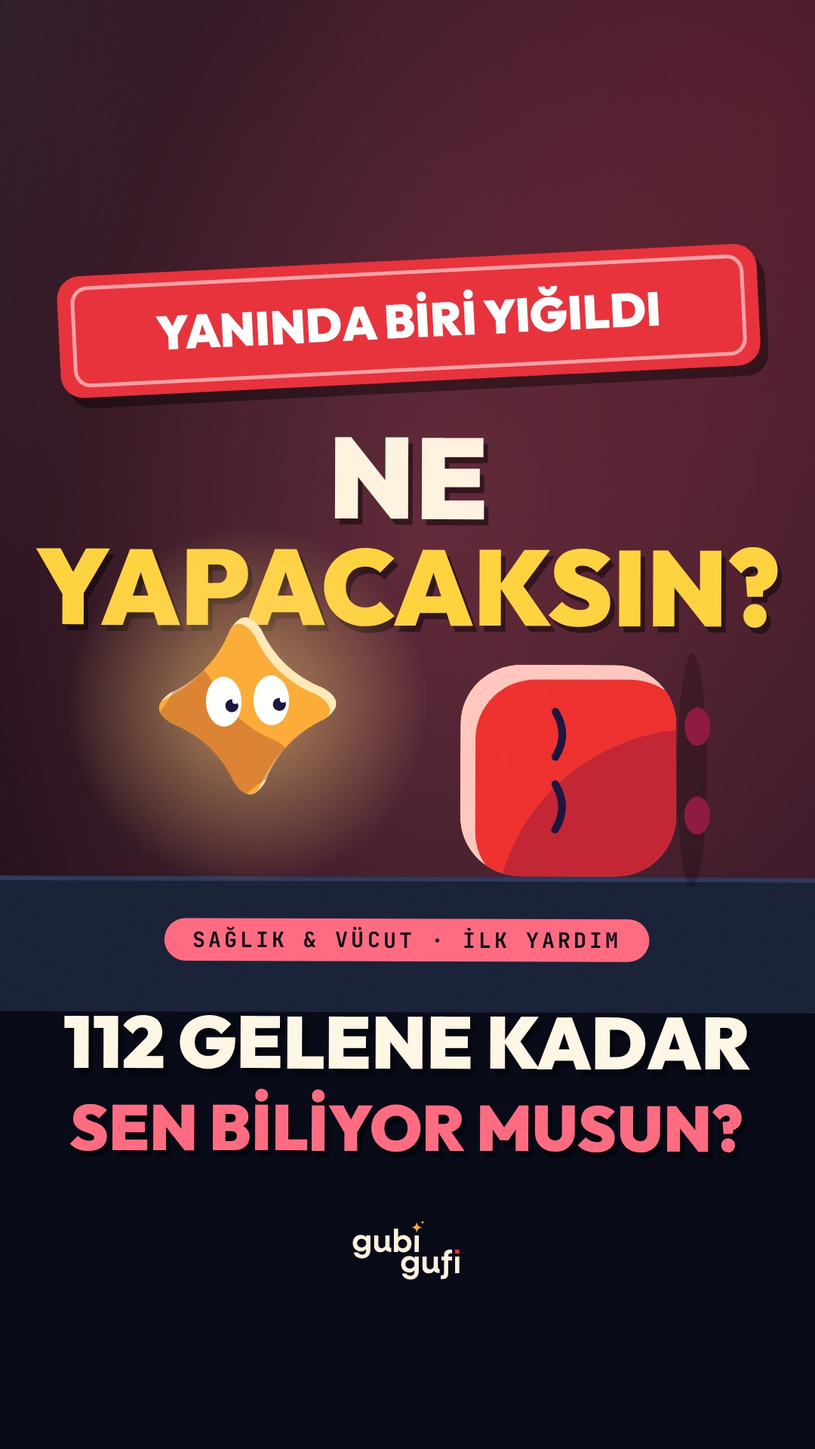
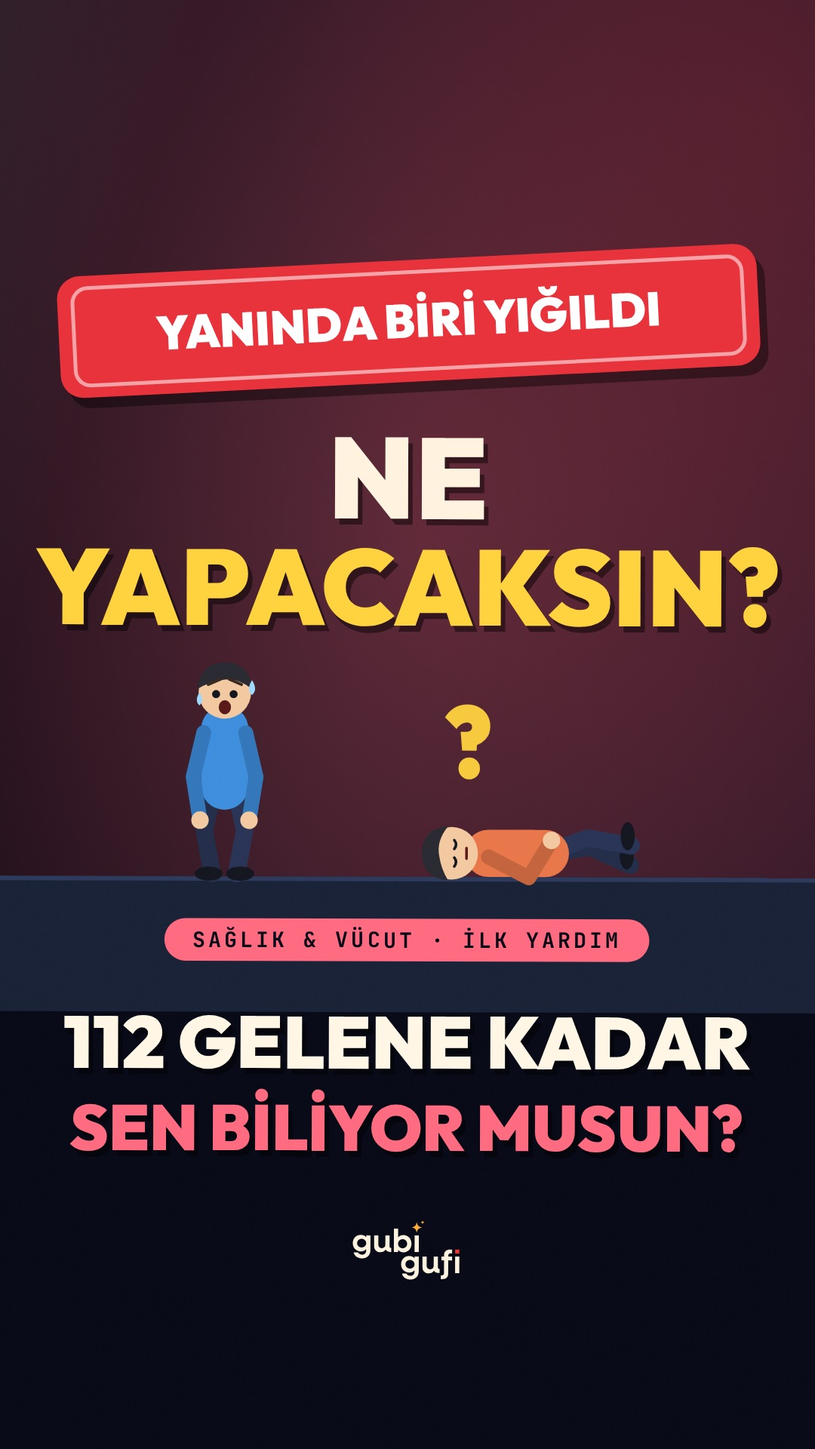
gubigufi #41: acilis insanlarla (Gubi/Gufi sonraki bolumlerde), kapak insanli
Claude-Session: https://claude.ai/code/session_01XpFWe2qV8RD24ed2Fkasje

Changed region(s): [[0.1222, 0.375, 0.4889, 0.625], [0.5194, 0.4375, 0.8861, 0.625]]

diff --git a/gubigufi/2026-10-18/41-ilk-yardim/kaynak/sahneler/s01.html b/gubigufi/2026-10-18/41-ilk-yardim/kaynak/sahneler/s01.html
@@ -4,7 +4,7 @@
 <svg viewBox="0 0 1080 1920" width="1080" height="1920" xmlns="http://www.w3.org/2000/svg">
   <g id="kamYak"><g id="zemin"></g><g class="kamera"><g id="sabit"></g><g id="dinamik"></g></g></g>
 </svg>
-<script>window.SB = 0; const TP = {"gubi": [[1.3, "sok"], [4.4, "isaret"], [7.5, "endise"], [10.15, "korku"]], "gufi": [[0.98, "bayil"]]}; window.GECIS = {"gir": null, "cik": {"tur": "kayma"}}; window.KLIP_N = {};</script>
+<script>window.SB = 0; const TP = {"gubi": [], "gufi": []}; window.GECIS = {"gir": null, "cik": {"tur": "kayma"}}; window.KLIP_N = {};</script>
 <script src="../ortak/kit.js"></script><script src="../ortak/maskot.js"></script><script src="../ortak/kisi.js"></script><script src="../ortak/zemin.js"></script><script src="../ortak/hareket.js"></script><script src="../ortak/cevre.js"></script><script src="../ortak/kostum.js"></script><script src="../ortak/para.js"></script><script src="../ortak/hk.js"></script><script src="../ortak/detay.js"></script><script src="../ortak/au.js"></script><script src="../ortak/kp.js"></script><script src="../ortak/al.js"></script><script src="../ortak/sl.js"></script><script src="../ortak/se.js"></script>
 <script src="../ortak/harita/d3-array.min.js"></script><script src="../ortak/harita/d3-geo.min.js"></script><script src="../ortak/harita/topojson-client.min.js"></script><script src="../ortak/harita/dunya50.js"></script><script src="../ortak/harita/ulke_tablo.js"></script><script src="../ortak/harita/turkiye10.js"></script><script src="../ortak/harita/harita.js"></script>
 <script src="../ortak/vendor/flubber.min.js"></script><script src="../ortak/vendor/culori.js"></script><script src="../ortak/motion2.js"></script><script src="../ortak/logo_paths.js"></script><script src="../ortak/altyazi.js"></script>
@@ -249,6 +249,7 @@ const yuzCiz = (goz, agiz, ifade) => {
   return o; };
 const kafaCiz = (hc, rot, ten, sac, goz, agiz, ifade) => `<g transform="translate(${F1(hc[0])} ${F1(hc[1])}) rotate(${rot.toFixed(1)})"><circle r="30" fill="${ten}"/><path d="M-31 -4 Q-28 -34 0 -34 Q28 -34 31 -4 Q14 -18 -4 -14 Q-18 -12 -31 -4Z" fill="${sac}"/>`
   + (goz === 'kapali' ? `<path d="M-15 3 Q-10 7 -5 3 M5 3 Q10 7 15 3" stroke="#14171F" stroke-width="3" fill="none" stroke-linecap="round"/>` : `<circle cx="-10" cy="2" r="${goz === 'genis' ? 4.6 : 3.5}" fill="#14171F"/><circle cx="10" cy="2" r="${goz === 'genis' ? 4.6 : 3.5}" fill="#14171F"/>`)
+  + (ifade === 'korku' ? `<path d="M-19 -9 L-5 -15 M19 -9 L5 -15" stroke="#3A2A22" stroke-width="3.4" stroke-linecap="round"/><path d="M31 -14 q7 11 0 17 q-7 -6 0 -17Z M-29 0 q6 10 0 15 q-6 -5 0 -15Z" fill="#9FD8FF"/>` : '')
   + (agiz === 'acik' || agiz === 'korku' ? `<ellipse cx="0" cy="17" rx="7" ry="8" fill="#5A1A1A"/>` : agiz === 'gulum' ? `<path d="M-8 14 Q0 22 8 14" stroke="#5A1A1A" stroke-width="3" fill="none" stroke-linecap="round"/>` : `<path d="M-6 17 H6" stroke="#5A1A1A" stroke-width="3" stroke-linecap="round"/>`) + `</g>`;
 // kisi: sh omuz, hip kalça (yerel). Önden görünüm: shW>0 ; yandan: shW=0.
 const uzv = (s0, t, pref, renk, kal) => { const [e, h] = ik2(s0[0], s0[1], t[0], t[1], KSZ.A, KSZ.B, pref); return { yol: `<path d="M${F1(s0[0])} ${F1(s0[1])} L${F1(e[0])} ${F1(e[1])} L${F1(h[0])} ${F1(h[1])}" stroke="${renk}" stroke-width="${kal}" fill="none" stroke-linecap="round" stroke-linejoin="round"/>`, el: h }; };
@@ -395,14 +396,21 @@ const MAS = (t, o = {}) => gubi(t, { x: 880, y: 1650, boy: 150, duygu: o.gd || '
 
 MO.sahne({
   zemin: MO.zemin({ ust: '#0F1B33', alt: '#05080F', isik: [420, 700, '#FFD27A', .16], ikinci: [900, 1500, '#E8323C', .06] }),
-  kamera: [[0, 1.0, 540, 960], [.1, 1.04, 540, 960, 9.7, 'kamera'], [10.0, 2.7, 330, 980, 1.3, 'kamera']],
+  kamera: [[0, 1.0, 540, 960], [.1, 1.04, 540, 960, 9.7, 'kamera'], [10.0, 2.8, 345, 880, 1.3, 'kamera']],
   sarsinti: [[1.5, 12], [10.2, 10], [10.6, 8], [11.0, 6]],
   ciz: t => {
     let o = '';
     [[-20, 120, 330], [110, 90, 250], [205, 130, 380], [700, 110, 300], [815, 150, 420], [975, 120, 260]].forEach(([x, w, h]) => o += R(x, 1180 - h, w, h, 3, '#10182C'));
-    for (let i = 0; i < 18; i++) { const x = (i * 211) % 1060 + 10, y = 900 + (i * 97) %240; if (Math.sin(t * 1.5 + i) > -.6) o += R(x, y, 8, 11, 2, '#FFD27A', .5); }
+    for (let i = 0; i < 18; i++) { const x = (i * 211) % 1060 + 10, y = 900 + (i * 97) % 240; if (Math.sin(t * 1.5 + i) > -.6) o += R(x, y, 8, 11, 2, '#FFD27A', .5); }
     o += `<path d="M175 1180 V760 Q175 720 215 720 H300" stroke="#2B3550" stroke-width="12" fill="none"/>` + R(280, 716, 70, 20, 8, '#FFE9A8') + `<path d="M280 736 L180 1180 H410 L350 736Z" fill="#FFE9A8" opacity=".10"/>`;
     o += R(-100, 1180, 1280, 800, 0, '#1A2238') + R(-100, 1180, 1280, 8, 0, '#2E3A5C') + R(-100, 1500, 1280, 6, 0, '#2B3550', .6);
+    const ear = fd(t, 4.4, 4.7) * (1 - fd(t, 6.3, 6.6));
+    const korku = t > 10.0, sas = t > .9, pls = korku ? 1 + .03 * Math.sin(t * 22) : 1;
+    o += `<g transform="translate(340 1180) scale(${pls}) translate(-340 -1180)">` + dur(340, 1180, 1.55, { renk: '#3E8EDE', elR: ear > .01 ? [(24 * ear + 28 * (1 - ear)), (-190 * ear - 64 * (1 - ear))] : [28, -64], goz: sas ? 'genis' : 'acik', agiz: korku || sas ? 'acik' : 'duz', ifade: korku ? 'korku' : 'normal', basEk: t < .9 ? 0 : (t < 3.3 ? -8 : 0) }) + '</g>';
+    const wob = t > .35 && t < .98 ? Math.sin(t * 24) * 2.5 * fd(t, .35, .9) : 0;
+    if (t < 1.0) o += `<g transform="rotate(${wob} 840 1180)">` + dur(840, 1180, 1.55, { renk: '#E8774A', goz: 'kapali', agiz: 'duz', elL: [-34, -90], elR: [34, -90 + 14 * fd(t, .5, 1)] }) + '</g>';
+    else { const th = MO.E.inQuad(fd(t, .98, 1.55)); o += th < 1 ? dusus(840, 1180, 1.55, th, { renk: '#E8774A' }) : yatan(840 - 168 * 1.55, 1180, 1.55, { renk: '#E8774A' }); }
+    const dz = MO.ar(t, 1.55, 2.4); if (dz > 0 && dz < 1) for (let k = 0; k < 5; k++) o += `<circle cx="${620 + k * 55}" cy="${1170 - 20 * dz * (1 + k % 2)}" r="${14 + 30 * dz}" fill="#8A94A8" opacity="${(.4 * (1 - dz)).toFixed(2)}"/>`;
     o += ET(t, 3.25, 4.35, 'KİMSE YOK', '#E8323C', '#FFFFFF', 84, 520, -3);
     o += MO.sar(R(-210, -150, 420, 300, 40, '#0F1838') + `<rect x="-210" y="-150" width="420" height="300" rx="40" fill="none" stroke="#7FD0FF" stroke-width="5"/>` + ikon('tel', -90, 0, 1.9) + txt('112', 80, 34, 110, '#FFFFFF'), MO.oge(t, { gir: 4.4, cik: 6.45, agirlik: 'orta', giris: 'olcek', materyal: 'plastik', x: 540 }), 540, 620, { golge: false });
     o += MO.sar(R(-250, -62, 500, 124, 62, '#1F9E5B') + `<circle cx="-170" cy="0" r="38" fill="#FFFFFF"/><path d="M-188 2 L-176 14 L-152 -14" stroke="#1F9E5B" stroke-width="9" fill="none" stroke-linecap="round" stroke-linejoin="round"/>` + txt('DOĞRU', 40, 22, 62, '#FFFFFF'), MO.oge(t, { gir: 6.5, cik: 7.7, agirlik: 'hafif', giris: 'yuksel', materyal: 'lastik', x: 540 }), 540, 620, { golge: false });
@@ -412,15 +420,6 @@ MO.sahne({
       o += `<g opacity="${ka.toFixed(2)}">` + MO.sar(saat(0, 0, 100, (t - 7.4) * .7), MO.oge(t, { gir: 7.5, cik: 9.8, agirlik: 'agir', giris: 'olcek', materyal: 'plastik', x: 540 }), 880, 560, { golge: false }) + '</g>';
       o += MO.sar(zamanChip('O DAKİKALAR', 0, 0, '#E8323C', '#FFFFFF', 40), MO.oge(t, { gir: 7.8, cik: 9.8, agirlik: 'hafif', giris: 'yuksel', x: 540 }), 400, 560, { golge: false });
     }
-    // oyuncular: Gufi yığılan kişi, Gubi yanındaki "sen". Havadan görüntüde köşede izler.
-    const gA = 1 - ka;
-    if (gA > .01) {
-      const gx = 780, gy = 1180;
-      if (t < 3.1) o += `<g opacity="${gA.toFixed(2)}">` + gufi(t, { x: gx, y: gy, boy: 300, duygu: t < .98 ? 'merak' : 'uyu', bakHedef: [340, 980] }) + '</g>';
-      else o += `<g opacity="${gA.toFixed(2)}"><g transform="rotate(-90 ${gx} ${gy - 150})">` + gufi(t, { x: gx, y: gy, boy: 300, duygu: 'uyu', tepkiler: [], canlilik: false }) + '</g></g>';
-      o += `<g opacity="${gA.toFixed(2)}">` + gubi(t, { x: 340, y: 960, boy: 250, duygu: t > 10.1 ? 'korku' : (t > .9 ? 'saskin' : 'merak'), bakHedef: t < .9 ? [840, 1060] : [840, 1160], isaretHedef: [540, 620] }) + '</g>';
-    }
-    if (ka > .01) o += `<g opacity="${ka.toFixed(2)}">` + gubi(t, { x: 180, y: 1530, boy: 190, duygu: 'saskin', bakHedef: [540, 1000] }) + '</g>';
     return o;
   },
   onCiz: t => ET(t, 10.5, 99, 'NE YAPACAKSIN?', '#FFD23F', '#1B2440', 76, 520, -2)

diff --git a/gubigufi/2026-10-18/41-ilk-yardim/kaynak/sahneler/kapak.html b/gubigufi/2026-10-18/41-ilk-yardim/kaynak/sahneler/kapak.html
@@ -249,6 +249,7 @@ const yuzCiz = (goz, agiz, ifade) => {
   return o; };
 const kafaCiz = (hc, rot, ten, sac, goz, agiz, ifade) => `<g transform="translate(${F1(hc[0])} ${F1(hc[1])}) rotate(${rot.toFixed(1)})"><circle r="30" fill="${ten}"/><path d="M-31 -4 Q-28 -34 0 -34 Q28 -34 31 -4 Q14 -18 -4 -14 Q-18 -12 -31 -4Z" fill="${sac}"/>`
   + (goz === 'kapali' ? `<path d="M-15 3 Q-10 7 -5 3 M5 3 Q10 7 15 3" stroke="#14171F" stroke-width="3" fill="none" stroke-linecap="round"/>` : `<circle cx="-10" cy="2" r="${goz === 'genis' ? 4.6 : 3.5}" fill="#14171F"/><circle cx="10" cy="2" r="${goz === 'genis' ? 4.6 : 3.5}" fill="#14171F"/>`)
+  + (ifade === 'korku' ? `<path d="M-19 -9 L-5 -15 M19 -9 L5 -15" stroke="#3A2A22" stroke-width="3.4" stroke-linecap="round"/><path d="M31 -14 q7 11 0 17 q-7 -6 0 -17Z M-29 0 q6 10 0 15 q-6 -5 0 -15Z" fill="#9FD8FF"/>` : '')
   + (agiz === 'acik' || agiz === 'korku' ? `<ellipse cx="0" cy="17" rx="7" ry="8" fill="#5A1A1A"/>` : agiz === 'gulum' ? `<path d="M-8 14 Q0 22 8 14" stroke="#5A1A1A" stroke-width="3" fill="none" stroke-linecap="round"/>` : `<path d="M-6 17 H6" stroke="#5A1A1A" stroke-width="3" stroke-linecap="round"/>`) + `</g>`;
 // kisi: sh omuz, hip kalça (yerel). Önden görünüm: shW>0 ; yandan: shW=0.
 const uzv = (s0, t, pref, renk, kal) => { const [e, h] = ik2(s0[0], s0[1], t[0], t[1], KSZ.A, KSZ.B, pref); return { yol: `<path d="M${F1(s0[0])} ${F1(s0[1])} L${F1(e[0])} ${F1(e[1])} L${F1(h[0])} ${F1(h[1])}" stroke="${renk}" stroke-width="${kal}" fill="none" stroke-linecap="round" stroke-linejoin="round"/>`, el: h }; };
@@ -402,8 +403,8 @@ MO.sahne({
     let o = `<g transform="translate(540 430) rotate(-3)">` + R(-460 + 10, -80 + 14, 920, 160, 30, '#000', .4) + R(-460, -80, 920, 160, 30, '#E8323C') + `<rect x="-440" y="-64" width="880" height="128" rx="20" fill="none" stroke="#FFFFFF" stroke-opacity=".55" stroke-width="5"/>` + txt('YANINDA BİRİ YIĞILDI', 0, 22, 62, '#FFFFFF') + `</g>`;
     o += gTxt('NE', 540, 690, 150, '#FFF3E0') + gTxt('YAPACAKSIN?', 540, 830, 140, '#FFD23F');
     o += R(-100, 1160, 1280, 400, 0, '#1A2238') + R(-100, 1160, 1280, 6, 0, '#2E3A5C');
-    o += `<g transform="rotate(-90 770 1020)">` + gufi(2, { x: 770, y: 1160, boy: 280, duygu: 'uyu', tepkiler: [], canlilik: false }) + `</g>`;
-    o += gubi(2, { x: 330, y: 950, boy: 250, duygu: 'korku', tepkiler: [], bakHedef: [770, 1080] });
+    o += dur(300, 1160, 1.15, { renk: '#3E8EDE', goz: 'genis', agiz: 'acik', ifade: 'korku' }) + yatan(840 - 168 * 1.15, 1160, 1.15, { renk: '#E8774A' });
+    o += `<text x="620" y="1030" font-size="130" font-weight="900" text-anchor="middle" style="fill:#FFD23F" opacity=".95">?</text>`;
     const f = 'cvf'; o += `<defs><linearGradient id="${f}" x1="0" y1="0" x2="0" y2="1"><stop offset="0" stop-color="rgba(8,10,24,0)"/><stop offset="1" stop-color="#080A18"/></linearGradient></defs><rect x="0" y="1040" width="1080" height="300" fill="url(#${f})" opacity=".0"/><rect x="0" y="1338" width="1080" height="582" fill="#080A18"/>`;
     const ust = 'SAĞLIK & VÜCUT · İLK YARDIM'; o += `<rect x="${540 - (ust.length * 21 + 70) / 2}" y="1215" width="${ust.length * 21 + 70}" height="56" rx="28" fill="#FF6B81"/><text class="mono" x="540" y="1253" font-size="28" text-anchor="middle" letter-spacing="4" style="fill:#080A18">${ust}</text>`;
     o += gTxt('112 GELENE KADAR', 540, 1412, 96, '#FFF6E6') + gTxt('SEN BİLİYOR MUSUN?', 540, 1520, 84, '#FF6B81') + logo();

diff --git a/gubigufi/2026-10-18/41-ilk-yardim/kaynak/sahneler/s02.html b/gubigufi/2026-10-18/41-ilk-yardim/kaynak/sahneler/s02.html
@@ -249,6 +249,7 @@ const yuzCiz = (goz, agiz, ifade) => {
   return o; };
 const kafaCiz = (hc, rot, ten, sac, goz, agiz, ifade) => `<g transform="translate(${F1(hc[0])} ${F1(hc[1])}) rotate(${rot.toFixed(1)})"><circle r="30" fill="${ten}"/><path d="M-31 -4 Q-28 -34 0 -34 Q28 -34 31 -4 Q14 -18 -4 -14 Q-18 -12 -31 -4Z" fill="${sac}"/>`
   + (goz === 'kapali' ? `<path d="M-15 3 Q-10 7 -5 3 M5 3 Q10 7 15 3" stroke="#14171F" stroke-width="3" fill="none" stroke-linecap="round"/>` : `<circle cx="-10" cy="2" r="${goz === 'genis' ? 4.6 : 3.5}" fill="#14171F"/><circle cx="10" cy="2" r="${goz === 'genis' ? 4.6 : 3.5}" fill="#14171F"/>`)
+  + (ifade === 'korku' ? `<path d="M-19 -9 L-5 -15 M19 -9 L5 -15" stroke="#3A2A22" stroke-width="3.4" stroke-linecap="round"/><path d="M31 -14 q7 11 0 17 q-7 -6 0 -17Z M-29 0 q6 10 0 15 q-6 -5 0 -15Z" fill="#9FD8FF"/>` : '')
   + (agiz === 'acik' || agiz === 'korku' ? `<ellipse cx="0" cy="17" rx="7" ry="8" fill="#5A1A1A"/>` : agiz === 'gulum' ? `<path d="M-8 14 Q0 22 8 14" stroke="#5A1A1A" stroke-width="3" fill="none" stroke-linecap="round"/>` : `<path d="M-6 17 H6" stroke="#5A1A1A" stroke-width="3" stroke-linecap="round"/>`) + `</g>`;
 // kisi: sh omuz, hip kalça (yerel). Önden görünüm: shW>0 ; yandan: shW=0.
 const uzv = (s0, t, pref, renk, kal) => { const [e, h] = ik2(s0[0], s0[1], t[0], t[1], KSZ.A, KSZ.B, pref); return { yol: `<path d="M${F1(s0[0])} ${F1(s0[1])} L${F1(e[0])} ${F1(e[1])} L${F1(h[0])} ${F1(h[1])}" stroke="${renk}" stroke-width="${kal}" fill="none" stroke-linecap="round" stroke-linejoin="round"/>`, el: h }; };

diff --git a/gubigufi/2026-10-18/41-ilk-yardim/kaynak/sahneler/s03.html b/gubigufi/2026-10-18/41-ilk-yardim/kaynak/sahneler/s03.html
@@ -249,6 +249,7 @@ const yuzCiz = (goz, agiz, ifade) => {
   return o; };
 const kafaCiz = (hc, rot, ten, sac, goz, agiz, ifade) => `<g transform="translate(${F1(hc[0])} ${F1(hc[1])}) rotate(${rot.toFixed(1)})"><circle r="30" fill="${ten}"/><path d="M-31 -4 Q-28 -34 0 -34 Q28 -34 31 -4 Q14 -18 -4 -14 Q-18 -12 -31 -4Z" fill="${sac}"/>`
   + (goz === 'kapali' ? `<path d="M-15 3 Q-10 7 -5 3 M5 3 Q10 7 15 3" stroke="#14171F" stroke-width="3" fill="none" stroke-linecap="round"/>` : `<circle cx="-10" cy="2" r="${goz === 'genis' ? 4.6 : 3.5}" fill="#14171F"/><circle cx="10" cy="2" r="${goz === 'genis' ? 4.6 : 3.5}" fill="#14171F"/>`)
+  + (ifade === 'korku' ? `<path d="M-19 -9 L-5 -15 M19 -9 L5 -15" stroke="#3A2A22" stroke-width="3.4" stroke-linecap="round"/><path d="M31 -14 q7 11 0 17 q-7 -6 0 -17Z M-29 0 q6 10 0 15 q-6 -5 0 -15Z" fill="#9FD8FF"/>` : '')
   + (agiz === 'acik' || agiz === 'korku' ? `<ellipse cx="0" cy="17" rx="7" ry="8" fill="#5A1A1A"/>` : agiz === 'gulum' ? `<path d="M-8 14 Q0 22 8 14" stroke="#5A1A1A" stroke-width="3" fill="none" stroke-linecap="round"/>` : `<path d="M-6 17 H6" stroke="#5A1A1A" stroke-width="3" stroke-linecap="round"/>`) + `</g>`;
 // kisi: sh omuz, hip kalça (yerel). Önden görünüm: shW>0 ; yandan: shW=0.
 const uzv = (s0, t, pref, renk, kal) => { const [e, h] = ik2(s0[0], s0[1], t[0], t[1], KSZ.A, KSZ.B, pref); return { yol: `<path d="M${F1(s0[0])} ${F1(s0[1])} L${F1(e[0])} ${F1(e[1])} L${F1(h[0])} ${F1(h[1])}" stroke="${renk}" stroke-width="${kal}" fill="none" stroke-linecap="round" stroke-linejoin="round"/>`, el: h }; };

diff --git a/gubigufi/2026-10-18/41-ilk-yardim/kaynak/sahneler/s04.html b/gubigufi/2026-10-18/41-ilk-yardim/kaynak/sahneler/s04.html
@@ -249,6 +249,7 @@ const yuzCiz = (goz, agiz, ifade) => {
   return o; };
 const kafaCiz = (hc, rot, ten, sac, goz, agiz, ifade) => `<g transform="translate(${F1(hc[0])} ${F1(hc[1])}) rotate(${rot.toFixed(1)})"><circle r="30" fill="${ten}"/><path d="M-31 -4 Q-28 -34 0 -34 Q28 -34 31 -4 Q14 -18 -4 -14 Q-18 -12 -31 -4Z" fill="${sac}"/>`
   + (goz === 'kapali' ? `<path d="M-15 3 Q-10 7 -5 3 M5 3 Q10 7 15 3" stroke="#14171F" stroke-width="3" fill="none" stroke-linecap="round"/>` : `<circle cx="-10" cy="2" r="${goz === 'genis' ? 4.6 : 3.5}" fill="#14171F"/><circle cx="10" cy="2" r="${goz === 'genis' ? 4.6 : 3.5}" fill="#14171F"/>`)
+  + (ifade === 'korku' ? `<path d="M-19 -9 L-5 -15 M19 -9 L5 -15" stroke="#3A2A22" stroke-width="3.4" stroke-linecap="round"/><path d="M31 -14 q7 11 0 17 q-7 -6 0 -17Z M-29 0 q6 10 0 15 q-6 -5 0 -15Z" fill="#9FD8FF"/>` : '')
   + (agiz === 'acik' || agiz === 'korku' ? `<ellipse cx="0" cy="17" rx="7" ry="8" fill="#5A1A1A"/>` : agiz === 'gulum' ? `<path d="M-8 14 Q0 22 8 14" stroke="#5A1A1A" stroke-width="3" fill="none" stroke-linecap="round"/>` : `<path d="M-6 17 H6" stroke="#5A1A1A" stroke-width="3" stroke-linecap="round"/>`) + `</g>`;
 // kisi: sh omuz, hip kalça (yerel). Önden görünüm: shW>0 ; yandan: shW=0.
 const uzv = (s0, t, pref, renk, kal) => { const [e, h] = ik2(s0[0], s0[1], t[0], t[1], KSZ.A, KSZ.B, pref); return { yol: `<path d="M${F1(s0[0])} ${F1(s0[1])} L${F1(e[0])} ${F1(e[1])} L${F1(h[0])} ${F1(h[1])}" stroke="${renk}" stroke-width="${kal}" fill="none" stroke-linecap="round" stroke-linejoin="round"/>`, el: h }; };

diff --git a/gubigufi/2026-10-18/41-ilk-yardim/kaynak/sahneler/s05.html b/gubigufi/2026-10-18/41-ilk-yardim/kaynak/sahneler/s05.html
@@ -249,6 +249,7 @@ const yuzCiz = (goz, agiz, ifade) => {
   return o; };
 const kafaCiz = (hc, rot, ten, sac, goz, agiz, ifade) => `<g transform="translate(${F1(hc[0])} ${F1(hc[1])}) rotate(${rot.toFixed(1)})"><circle r="30" fill="${ten}"/><path d="M-31 -4 Q-28 -34 0 -34 Q28 -34 31 -4 Q14 -18 -4 -14 Q-18 -12 -31 -4Z" fill="${sac}"/>`
   + (goz === 'kapali' ? `<path d="M-15 3 Q-10 7 -5 3 M5 3 Q10 7 15 3" stroke="#14171F" stroke-width="3" fill="none" stroke-linecap="round"/>` : `<circle cx="-10" cy="2" r="${goz === 'genis' ? 4.6 : 3.5}" fill="#14171F"/><circle cx="10" cy="2" r="${goz === 'genis' ? 4.6 : 3.5}" fill="#14171F"/>`)
+  + (ifade === 'korku' ? `<path d="M-19 -9 L-5 -15 M19 -9 L5 -15" stroke="#3A2A22" stroke-width="3.4" stroke-linecap="round"/><path d="M31 -14 q7 11 0 17 q-7 -6 0 -17Z M-29 0 q6 10 0 15 q-6 -5 0 -15Z" fill="#9FD8FF"/>` : '')
   + (agiz === 'acik' || agiz === 'korku' ? `<ellipse cx="0" cy="17" rx="7" ry="8" fill="#5A1A1A"/>` : agiz === 'gulum' ? `<path d="M-8 14 Q0 22 8 14" stroke="#5A1A1A" stroke-width="3" fill="none" stroke-linecap="round"/>` : `<path d="M-6 17 H6" stroke="#5A1A1A" stroke-width="3" stroke-linecap="round"/>`) + `</g>`;
 // kisi: sh omuz, hip kalça (yerel). Önden görünüm: shW>0 ; yandan: shW=0.
 const uzv = (s0, t, pref, renk, kal) => { const [e, h] = ik2(s0[0], s0[1], t[0], t[1], KSZ.A, KSZ.B, pref); return { yol: `<path d="M${F1(s0[0])} ${F1(s0[1])} L${F1(e[0])} ${F1(e[1])} L${F1(h[0])} ${F1(h[1])}" stroke="${renk}" stroke-width="${kal}" fill="none" stroke-linecap="round" stroke-linejoin="round"/>`, el: h }; };

diff --git a/gubigufi/2026-10-18/41-ilk-yardim/kaynak/sahneler/s06.html b/gubigufi/2026-10-18/41-ilk-yardim/kaynak/sahneler/s06.html
@@ -249,6 +249,7 @@ const yuzCiz = (goz, agiz, ifade) => {
   return o; };
 const kafaCiz = (hc, rot, ten, sac, goz, agiz, ifade) => `<g transform="translate(${F1(hc[0])} ${F1(hc[1])}) rotate(${rot.toFixed(1)})"><circle r="30" fill="${ten}"/><path d="M-31 -4 Q-28 -34 0 -34 Q28 -34 31 -4 Q14 -18 -4 -14 Q-18 -12 -31 -4Z" fill="${sac}"/>`
   + (goz === 'kapali' ? `<path d="M-15 3 Q-10 7 -5 3 M5 3 Q10 7 15 3" stroke="#14171F" stroke-width="3" fill="none" stroke-linecap="round"/>` : `<circle cx="-10" cy="2" r="${goz === 'genis' ? 4.6 : 3.5}" fill="#14171F"/><circle cx="10" cy="2" r="${goz === 'genis' ? 4.6 : 3.5}" fill="#14171F"/>`)
+  + (ifade === 'korku' ? `<path d="M-19 -9 L-5 -15 M19 -9 L5 -15" stroke="#3A2A22" stroke-width="3.4" stroke-linecap="round"/><path d="M31 -14 q7 11 0 17 q-7 -6 0 -17Z M-29 0 q6 10 0 15 q-6 -5 0 -15Z" fill="#9FD8FF"/>` : '')
   + (agiz === 'acik' || agiz === 'korku' ? `<ellipse cx="0" cy="17" rx="7" ry="8" fill="#5A1A1A"/>` : agiz === 'gulum' ? `<path d="M-8 14 Q0 22 8 14" stroke="#5A1A1A" stroke-width="3" fill="none" stroke-linecap="round"/>` : `<path d="M-6 17 H6" stroke="#5A1A1A" stroke-width="3" stroke-linecap="round"/>`) + `</g>`;
 // kisi: sh omuz, hip kalça (yerel). Önden görünüm: shW>0 ; yandan: shW=0.
 const uzv = (s0, t, pref, renk, kal) => { const [e, h] = ik2(s0[0], s0[1], t[0], t[1], KSZ.A, KSZ.B, pref); return { yol: `<path d="M${F1(s0[0])} ${F1(s0[1])} L${F1(e[0])} ${F1(e[1])} L${F1(h[0])} ${F1(h[1])}" stroke="${renk}" stroke-width="${kal}" fill="none" stroke-linecap="round" stroke-linejoin="round"/>`, el: h }; };

diff --git a/gubigufi/2026-10-18/41-ilk-yardim/kaynak/sahneler/s07.html b/gubigufi/2026-10-18/41-ilk-yardim/kaynak/sahneler/s07.html
@@ -249,6 +249,7 @@ const yuzCiz = (goz, agiz, ifade) => {
   return o; };
 const kafaCiz = (hc, rot, ten, sac, goz, agiz, ifade) => `<g transform="translate(${F1(hc[0])} ${F1(hc[1])}) rotate(${rot.toFixed(1)})"><circle r="30" fill="${ten}"/><path d="M-31 -4 Q-28 -34 0 -34 Q28 -34 31 -4 Q14 -18 -4 -14 Q-18 -12 -31 -4Z" fill="${sac}"/>`
   + (goz === 'kapali' ? `<path d="M-15 3 Q-10 7 -5 3 M5 3 Q10 7 15 3" stroke="#14171F" stroke-width="3" fill="none" stroke-linecap="round"/>` : `<circle cx="-10" cy="2" r="${goz === 'genis' ? 4.6 : 3.5}" fill="#14171F"/><circle cx="10" cy="2" r="${goz === 'genis' ? 4.6 : 3.5}" fill="#14171F"/>`)
+  + (ifade === 'korku' ? `<path d="M-19 -9 L-5 -15 M19 -9 L5 -15" stroke="#3A2A22" stroke-width="3.4" stroke-linecap="round"/><path d="M31 -14 q7 11 0 17 q-7 -6 0 -17Z M-29 0 q6 10 0 15 q-6 -5 0 -15Z" fill="#9FD8FF"/>` : '')
   + (agiz === 'acik' || agiz === 'korku' ? `<ellipse cx="0" cy="17" rx="7" ry="8" fill="#5A1A1A"/>` : agiz === 'gulum' ? `<path d="M-8 14 Q0 22 8 14" stroke="#5A1A1A" stroke-width="3" fill="none" stroke-linecap="round"/>` : `<path d="M-6 17 H6" stroke="#5A1A1A" stroke-width="3" stroke-linecap="round"/>`) + `</g>`;
 // kisi: sh omuz, hip kalça (yerel). Önden görünüm: shW>0 ; yandan: shW=0.
 const uzv = (s0, t, pref, renk, kal) => { const [e, h] = ik2(s0[0], s0[1], t[0], t[1], KSZ.A, KSZ.B, pref); return { yol: `<path d="M${F1(s0[0])} ${F1(s0[1])} L${F1(e[0])} ${F1(e[1])} L${F1(h[0])} ${F1(h[1])}" stroke="${renk}" stroke-width="${kal}" fill="none" stroke-linecap="round" stroke-linejoin="round"/>`, el: h }; };

diff --git a/gubigufi/2026-10-18/41-ilk-yardim/kaynak/sahneler/s08.html b/gubigufi/2026-10-18/41-ilk-yardim/kaynak/sahneler/s08.html
@@ -249,6 +249,7 @@ const yuzCiz = (goz, agiz, ifade) => {
   return o; };
 const kafaCiz = (hc, rot, ten, sac, goz, agiz, ifade) => `<g transform="translate(${F1(hc[0])} ${F1(hc[1])}) rotate(${rot.toFixed(1)})"><circle r="30" fill="${ten}"/><path d="M-31 -4 Q-28 -34 0 -34 Q28 -34 31 -4 Q14 -18 -4 -14 Q-18 -12 -31 -4Z" fill="${sac}"/>`
   + (goz === 'kapali' ? `<path d="M-15 3 Q-10 7 -5 3 M5 3 Q10 7 15 3" stroke="#14171F" stroke-width="3" fill="none" stroke-linecap="round"/>` : `<circle cx="-10" cy="2" r="${goz === 'genis' ? 4.6 : 3.5}" fill="#14171F"/><circle cx="10" cy="2" r="${goz === 'genis' ? 4.6 : 3.5}" fill="#14171F"/>`)
+  + (ifade === 'korku' ? `<path d="M-19 -9 L-5 -15 M19 -9 L5 -15" stroke="#3A2A22" stroke-width="3.4" stroke-linecap="round"/><path d="M31 -14 q7 11 0 17 q-7 -6 0 -17Z M-29 0 q6 10 0 15 q-6 -5 0 -15Z" fill="#9FD8FF"/>` : '')
   + (agiz === 'acik' || agiz === 'korku' ? `<ellipse cx="0" cy="17" rx="7" ry="8" fill="#5A1A1A"/>` : agiz === 'gulum' ? `<path d="M-8 14 Q0 22 8 14" stroke="#5A1A1A" stroke-width="3" fill="none" stroke-linecap="round"/>` : `<path d="M-6 17 H6" stroke="#5A1A1A" stroke-width="3" stroke-linecap="round"/>`) + `</g>`;
 // kisi: sh omuz, hip kalça (yerel). Önden görünüm: shW>0 ; yandan: shW=0.
 const uzv = (s0, t, pref, renk, kal) => { const [e, h] = ik2(s0[0], s0[1], t[0], t[1], KSZ.A, KSZ.B, pref); return { yol: `<path d="M${F1(s0[0])} ${F1(s0[1])} L${F1(e[0])} ${F1(e[1])} L${F1(h[0])} ${F1(h[1])}" stroke="${renk}" stroke-width="${kal}" fill="none" stroke-linecap="round" stroke-linejoin="round"/>`, el: h }; };

diff --git a/gubigufi/2026-10-18/41-ilk-yardim/kaynak/sahneler/s09.html b/gubigufi/2026-10-18/41-ilk-yardim/kaynak/sahneler/s09.html
@@ -249,6 +249,7 @@ const yuzCiz = (goz, agiz, ifade) => {
   return o; };
 const kafaCiz = (hc, rot, ten, sac, goz, agiz, ifade) => `<g transform="translate(${F1(hc[0])} ${F1(hc[1])}) rotate(${rot.toFixed(1)})"><circle r="30" fill="${ten}"/><path d="M-31 -4 Q-28 -34 0 -34 Q28 -34 31 -4 Q14 -18 -4 -14 Q-18 -12 -31 -4Z" fill="${sac}"/>`
   + (goz === 'kapali' ? `<path d="M-15 3 Q-10 7 -5 3 M5 3 Q10 7 15 3" stroke="#14171F" stroke-width="3" fill="none" stroke-linecap="round"/>` : `<circle cx="-10" cy="2" r="${goz === 'genis' ? 4.6 : 3.5}" fill="#14171F"/><circle cx="10" cy="2" r="${goz === 'genis' ? 4.6 : 3.5}" fill="#14171F"/>`)
+  + (ifade === 'korku' ? `<path d="M-19 -9 L-5 -15 M19 -9 L5 -15" stroke="#3A2A22" stroke-width="3.4" stroke-linecap="round"/><path d="M31 -14 q7 11 0 17 q-7 -6 0 -17Z M-29 0 q6 10 0 15 q-6 -5 0 -15Z" fill="#9FD8FF"/>` : '')
   + (agiz === 'acik' || agiz === 'korku' ? `<ellipse cx="0" cy="17" rx="7" ry="8" fill="#5A1A1A"/>` : agiz === 'gulum' ? `<path d="M-8 14 Q0 22 8 14" stroke="#5A1A1A" stroke-width="3" fill="none" stroke-linecap="round"/>` : `<path d="M-6 17 H6" stroke="#5A1A1A" stroke-width="3" stroke-linecap="round"/>`) + `</g>`;
 // kisi: sh omuz, hip kalça (yerel). Önden görünüm: shW>0 ; yandan: shW=0.
 const uzv = (s0, t, pref, renk, kal) => { const [e, h] = ik2(s0[0], s0[1], t[0], t[1], KSZ.A, KSZ.B, pref); return { yol: `<path d="M${F1(s0[0])} ${F1(s0[1])} L${F1(e[0])} ${F1(e[1])} L${F1(h[0])} ${F1(h[1])}" stroke="${renk}" stroke-width="${kal}" fill="none" stroke-linecap="round" stroke-linejoin="round"/>`, el: h }; };

diff --git a/gubigufi/2026-10-18/41-ilk-yardim/kaynak/sahneler/s10.html b/gubigufi/2026-10-18/41-ilk-yardim/kaynak/sahneler/s10.html
@@ -249,6 +249,7 @@ const yuzCiz = (goz, agiz, ifade) => {
   return o; };
 const kafaCiz = (hc, rot, ten, sac, goz, agiz, ifade) => `<g transform="translate(${F1(hc[0])} ${F1(hc[1])}) rotate(${rot.toFixed(1)})"><circle r="30" fill="${ten}"/><path d="M-31 -4 Q-28 -34 0 -34 Q28 -34 31 -4 Q14 -18 -4 -14 Q-18 -12 -31 -4Z" fill="${sac}"/>`
   + (goz === 'kapali' ? `<path d="M-15 3 Q-10 7 -5 3 M5 3 Q10 7 15 3" stroke="#14171F" stroke-width="3" fill="none" stroke-linecap="round"/>` : `<circle cx="-10" cy="2" r="${goz === 'genis' ? 4.6 : 3.5}" fill="#14171F"/><circle cx="10" cy="2" r="${goz === 'genis' ? 4.6 : 3.5}" fill="#14171F"/>`)
+  + (ifade === 'korku' ? `<path d="M-19 -9 L-5 -15 M19 -9 L5 -15" stroke="#3A2A22" stroke-width="3.4" stroke-linecap="round"/><path d="M31 -14 q7 11 0 17 q-7 -6 0 -17Z M-29 0 q6 10 0 15 q-6 -5 0 -15Z" fill="#9FD8FF"/>` : '')
   + (agiz === 'acik' || agiz === 'korku' ? `<ellipse cx="0" cy="17" rx="7" ry="8" fill="#5A1A1A"/>` : agiz === 'gulum' ? `<path d="M-8 14 Q0 22 8 14" stroke="#5A1A1A" stroke-width="3" fill="none" stroke-linecap="round"/>` : `<path d="M-6 17 H6" stroke="#5A1A1A" stroke-width="3" stroke-linecap="round"/>`) + `</g>`;
 // kisi: sh omuz, hip kalça (yerel). Önden görünüm: shW>0 ; yandan: shW=0.
 const uzv = (s0, t, pref, renk, kal) => { const [e, h] = ik2(s0[0], s0[1], t[0], t[1], KSZ.A, KSZ.B, pref); return { yol: `<path d="M${F1(s0[0])} ${F1(s0[1])} L${F1(e[0])} ${F1(e[1])} L${F1(h[0])} ${F1(h[1])}" stroke="${renk}" stroke-width="${kal}" fill="none" stroke-linecap="round" stroke-linejoin="round"/>`, el: h }; };

diff --git a/gubigufi/2026-10-18/41-ilk-yardim/kaynak/sahneler/s11.html b/gubigufi/2026-10-18/41-ilk-yardim/kaynak/sahneler/s11.html
@@ -249,6 +249,7 @@ const yuzCiz = (goz, agiz, ifade) => {
   return o; };
 const kafaCiz = (hc, rot, ten, sac, goz, agiz, ifade) => `<g transform="translate(${F1(hc[0])} ${F1(hc[1])}) rotate(${rot.toFixed(1)})"><circle r="30" fill="${ten}"/><path d="M-31 -4 Q-28 -34 0 -34 Q28 -34 31 -4 Q14 -18 -4 -14 Q-18 -12 -31 -4Z" fill="${sac}"/>`
   + (goz === 'kapali' ? `<path d="M-15 3 Q-10 7 -5 3 M5 3 Q10 7 15 3" stroke="#14171F" stroke-width="3" fill="none" stroke-linecap="round"/>` : `<circle cx="-10" cy="2" r="${goz === 'genis' ? 4.6 : 3.5}" fill="#14171F"/><circle cx="10" cy="2" r="${goz === 'genis' ? 4.6 : 3.5}" fill="#14171F"/>`)
+  + (ifade === 'korku' ? `<path d="M-19 -9 L-5 -15 M19 -9 L5 -15" stroke="#3A2A22" stroke-width="3.4" stroke-linecap="round"/><path d="M31 -14 q7 11 0 17 q-7 -6 0 -17Z M-29 0 q6 10 0 15 q-6 -5 0 -15Z" fill="#9FD8FF"/>` : '')
   + (agiz === 'acik' || agiz === 'korku' ? `<ellipse cx="0" cy="17" rx="7" ry="8" fill="#5A1A1A"/>` : agiz === 'gulum' ? `<path d="M-8 14 Q0 22 8 14" stroke="#5A1A1A" stroke-width="3" fill="none" stroke-linecap="round"/>` : `<path d="M-6 17 H6" stroke="#5A1A1A" stroke-width="3" stroke-linecap="round"/>`) + `</g>`;
 // kisi: sh omuz, hip kalça (yerel). Önden görünüm: shW>0 ; yandan: shW=0.
 const uzv = (s0, t, pref, renk, kal) => { const [e, h] = ik2(s0[0], s0[1], t[0], t[1], KSZ.A, KSZ.B, pref); return { yol: `<path d="M${F1(s0[0])} ${F1(s0[1])} L${F1(e[0])} ${F1(e[1])} L${F1(h[0])} ${F1(h[1])}" stroke="${renk}" stroke-width="${kal}" fill="none" stroke-linecap="round" stroke-linejoin="round"/>`, el: h }; };
